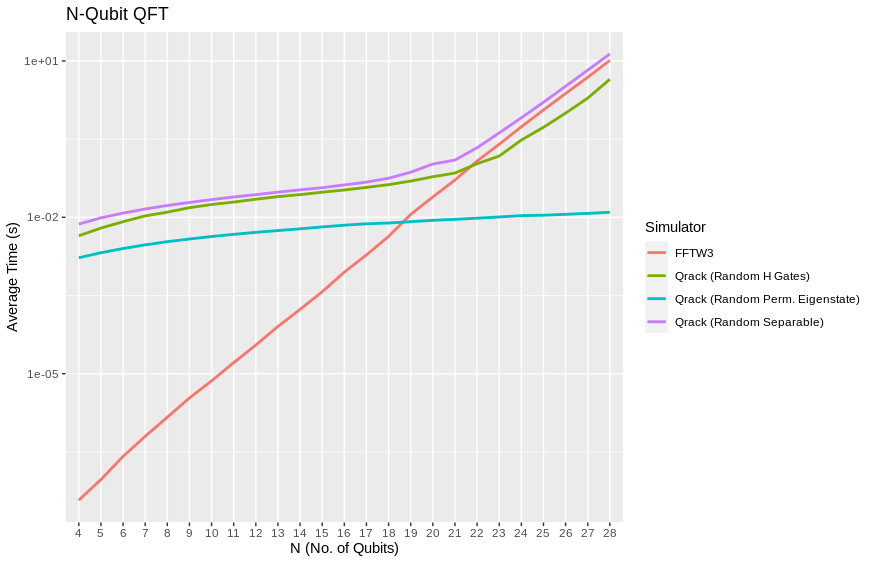
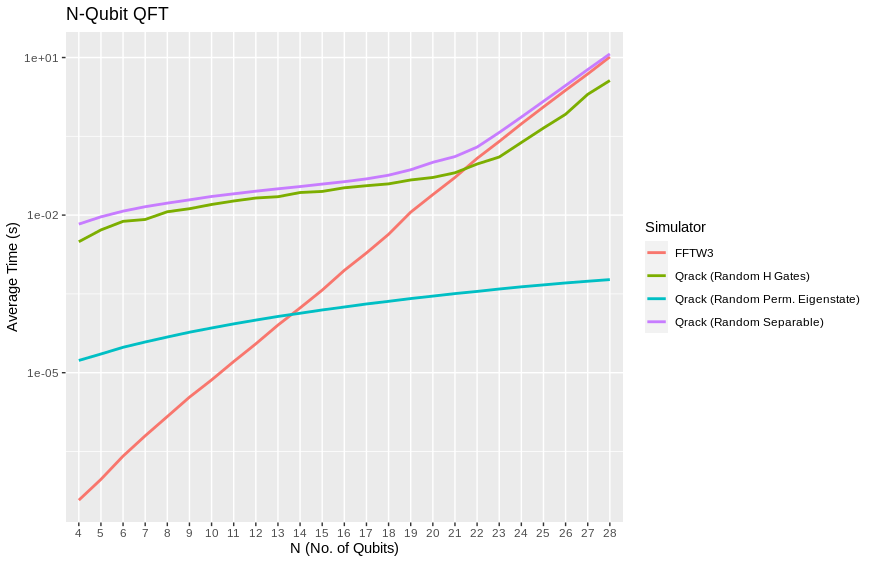
Updating benchmarks

diff --git a/docs/performance.rst b/docs/performance.rst
@@ -78,7 +78,7 @@ This performance document is meant to be a simple, to-the-point, and preliminary
 
 100 timed trials of single and parallel gates were run for each qubit count between 4 and 28 qubits. Three tests were performed: the quantum Fourier transform, ("QFT"), random circuits constructed from a universal gate set, and an idealized approximation of Google's Sycamore chip benchmark, as per [Sycamore]_. The benchmarking code is available at `https://github.com/vm6502q/simulator-benchmarks <https://github.com/vm6502q/simulator-benchmarks>`_.
 
-CPU and GPU benchmarks were run on two respective systems that could represent realistic use cases for each engine type. Among AWS virtual machine instances, we sought to find those systems with the lowest possible cost to run the benchmarks for their respective execution times, at or below for the 28 qubit mark. An AWS g3s.xlarge running Ubuntu Server 18.04LTS was selected for GPU benchmarks. An AWS c5.4xlarge running Ubuntu Server 18.04LTS was selected for CPU benchmarks, including FFTW3 for comparison on the QFT test. Benchmarks were collected from December 27, 2019 through January 24, 2020. Given delays in soliciting peer opinion, while development of Qrack continued, the Qrack benchmarks were updated on April 15, 2020. These results were combined with single gate, N-width gate and Grover's search benchmarks for Qrack, collected overnight from December 19th, 2018 into the morning of December 20th. (The potential difference since December 2018 in these particular Qrack tests reused from then should be insignificant. We took care to try to report fair tests, within cost limitations, but please let us know if you find anything that appears misrepresentative.)
+CPU and GPU benchmarks were run on two respective systems that could represent realistic use cases for each engine type. Among AWS virtual machine instances, we sought to find those systems with the lowest possible cost to run the benchmarks for their respective execution times, at or below for the 28 qubit mark. An AWS g3s.xlarge running Ubuntu Server 18.04LTS was selected for GPU benchmarks. An AWS c5.4xlarge running Ubuntu Server 18.04LTS was selected for CPU benchmarks, including FFTW3 for comparison on the QFT test. Benchmarks were collected from December 27, 2019 through January 24, 2020. Given delays in soliciting peer opinion, while development of Qrack continued, the Qrack benchmarks were updated on April 30th, 2020. These results were combined with single gate, N-width gate and Grover's search benchmarks for Qrack, collected overnight from December 19th, 2018 into the morning of December 20th. (The potential difference since December 2018 in these particular Qrack tests reused from then should be insignificant. We took care to try to report fair tests, within cost limitations, but please let us know if you find anything that appears misrepresentative.)
 
 The average time of each set of 100 was recorded and graphed. Grover's search to invert a black box subroutine, or "oracle," was similarly implemented for trials between 5 and 20 qubits, for QEngineOCL with and without QUnit and QFusion layers. Grover's algorithm was iterated an optimal number of times, vs. qubit count, to maximize probability on a half cycle of the algorithm's period, being :math:`floor\left[\frac{\pi}{4asin^2\left(1/\sqrt{2^N}\right)}\right]` iterations for :math:`N` qubits.
 
@@ -125,7 +125,7 @@ The "quantum" (or "discrete") Fourier transform (QFT/DFT) is a realistic and imp
 
 Recall that QCGPU and Qrack are GPU-implementations run on AWS g3s.xlarge instances, whereas all other candidates are run on AWS c5.4xlarge instances. Under these considerations, by the 28 qubit level, Qrack out-performs all other candidates except FFTW3. (Recall, also, that Qrack uses a representatively "hard" initialization on this test, as described above, whereas permutation basis eigenstate inputs, for example, are much more quickly executed.) Though we are comparing CPU to GPU, CPU-based FFTW3 is clearly the best suited for low numbers of qubits, in general. However, Qrack is the only candidate tested which exhibits even better special case performance on the QFT, as for random permutation basis eigenstate initialization, or initialization via permutation basis eigenstates with random "H" gates applied, before QFT.
 
-Similarly, on random universal circuits, defined above and in the benchmark repository, Qrack leads over all other candidates considered by the 24 qubit mark and up. GPU-based QCGPU leads on the test system for 23 qubits and below, and CPU-based Cirq leads for 8 qubits and fewer.
+Similarly, on random universal circuits, defined above and in the benchmark repository, Qrack leads over all other candidates considered by the 23 qubit mark and up. GPU-based QCGPU leads on the test system for 22 or 21 qubits and below, and CPU-based Cirq leads for 8 qubits and fewer.
 
 .. image:: performance/random_universal.png
 
@@ -133,11 +133,13 @@ Qrack's QUnit makes a fundamental improvement on an idealization of the Sycamore
 
 .. image:: performance/sycamore.png
 
+To validate that QUnit is actually reproducing the equivalent measurement distribution of the other libraries, we have implemented cross entropy benchmark tests between Qrack's QUnit and its Schrödinger method "QEngine" types, for the random universal circuit test. These tests are available as "test_universal_circuit_digital_cross_entropy" in the vm6502q/qrack repository standard benchmark and unit tests suites.
+
 
 Discussion
 **********
 
-Up to a consistent deviation at low qubit counts, speed and RAM usage for Schrödinger method "QEngine" types is well predicted by theoretical complexity considerations of the gates, up to about a factor of 2 on heap usage for duplication of the state vector, with additional 1/2 the size of state vector allocated by QEngineOCL for an auxiliary normalization buffer.
+Up to a consistent deviation at low qubit counts, speed and RAM usage for Schrödinger method QEngine types is well predicted by theoretical complexity considerations of the gates, up to about a factor of 2 on heap usage for duplication of the state vector, with additional 1/2 the size of state vector allocated by QEngineOCL for an auxiliary normalization buffer.
 
 Qrack::QUnit succeeds as a novel and fundamentally improved quantum simulation algorithm, over the naive Schrödinger algorithm. Primarily, QUnit does this by representing its state vector in terms of decomposed subsystems, as well as buffering and commuting H gates and singly-controlled gates. On user and internal probability checks, QUnit will attempt to separate the representations of independent subsystems by Schmidt decomposition. Further, Qrack will avoid applying phase effects that make no difference to the expectation values of any Hermitian operators, (no difference to "physical observables"). For each bit whose representation is separated this way, we recover a factor of close to or exactly 1/2 the subsystem RAM and gate execution time.
 

diff --git a/docs/api/qinterface.rst b/docs/api/qinterface.rst
@@ -51,7 +51,6 @@ State Manipulation Methods
 .. doxygenfunction:: Qrack::QInterface::Compose(std::vector<QInterfacePtr>, bool)
 
 .. doxygenfunction:: Qrack::QInterface::Decompose
-.. doxygenfunction:: Qrack::QInterface::TryDecompose
 
 .. doxygenfunction:: Qrack::QInterface::Dispose(bitLenInt, bitLenInt)
 .. doxygenfunction:: Qrack::QInterface::Dispose(bitLenInt, bitLenInt, bitCapInt)
